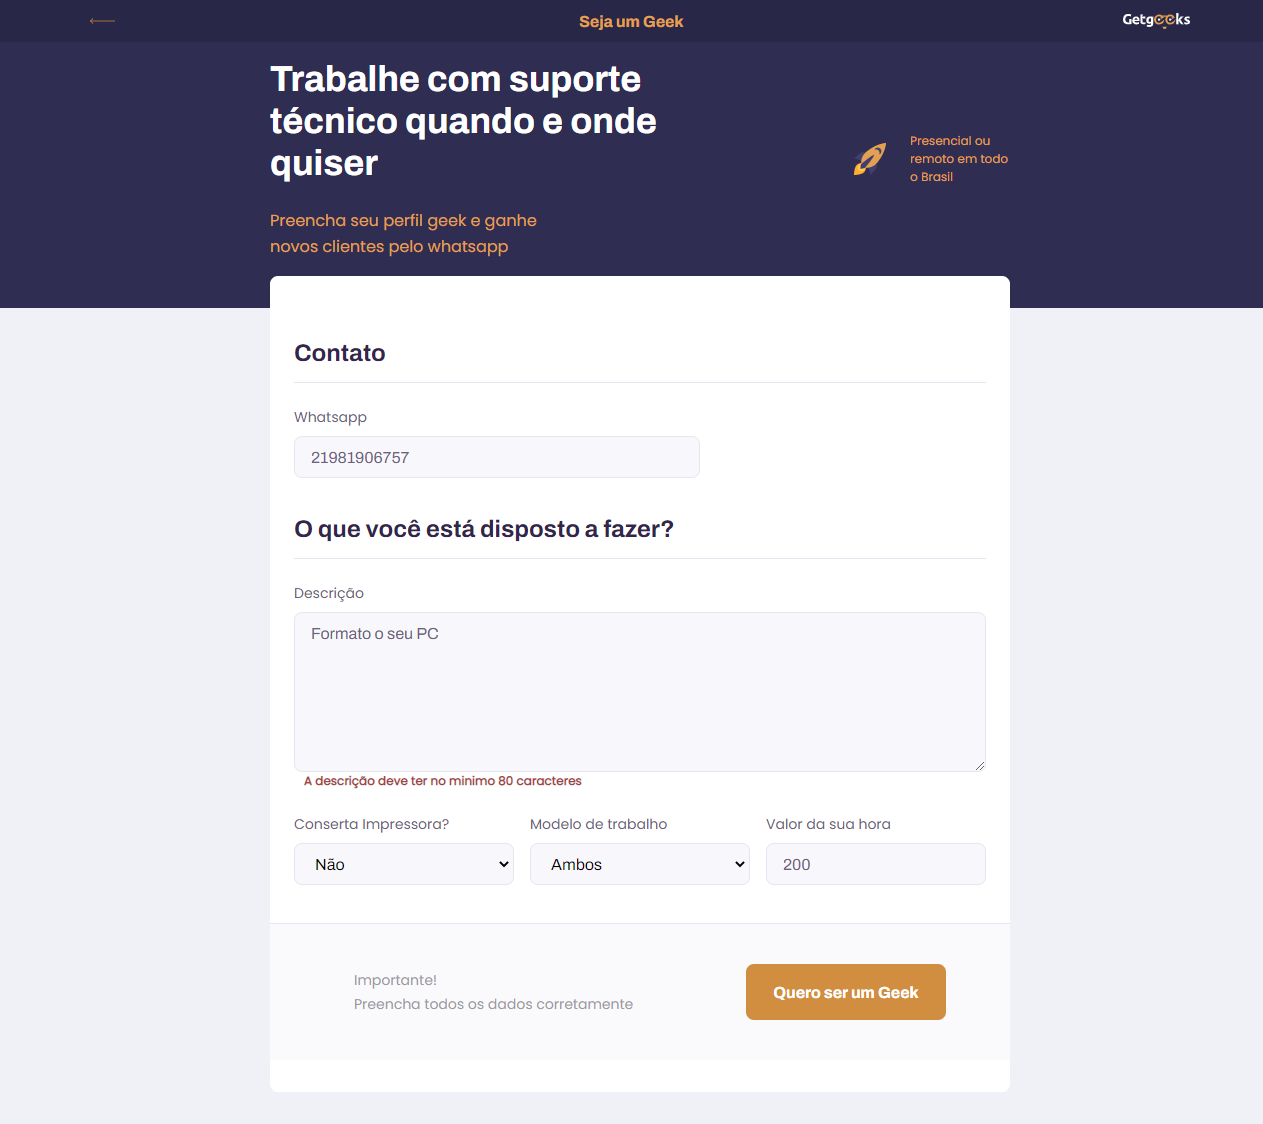
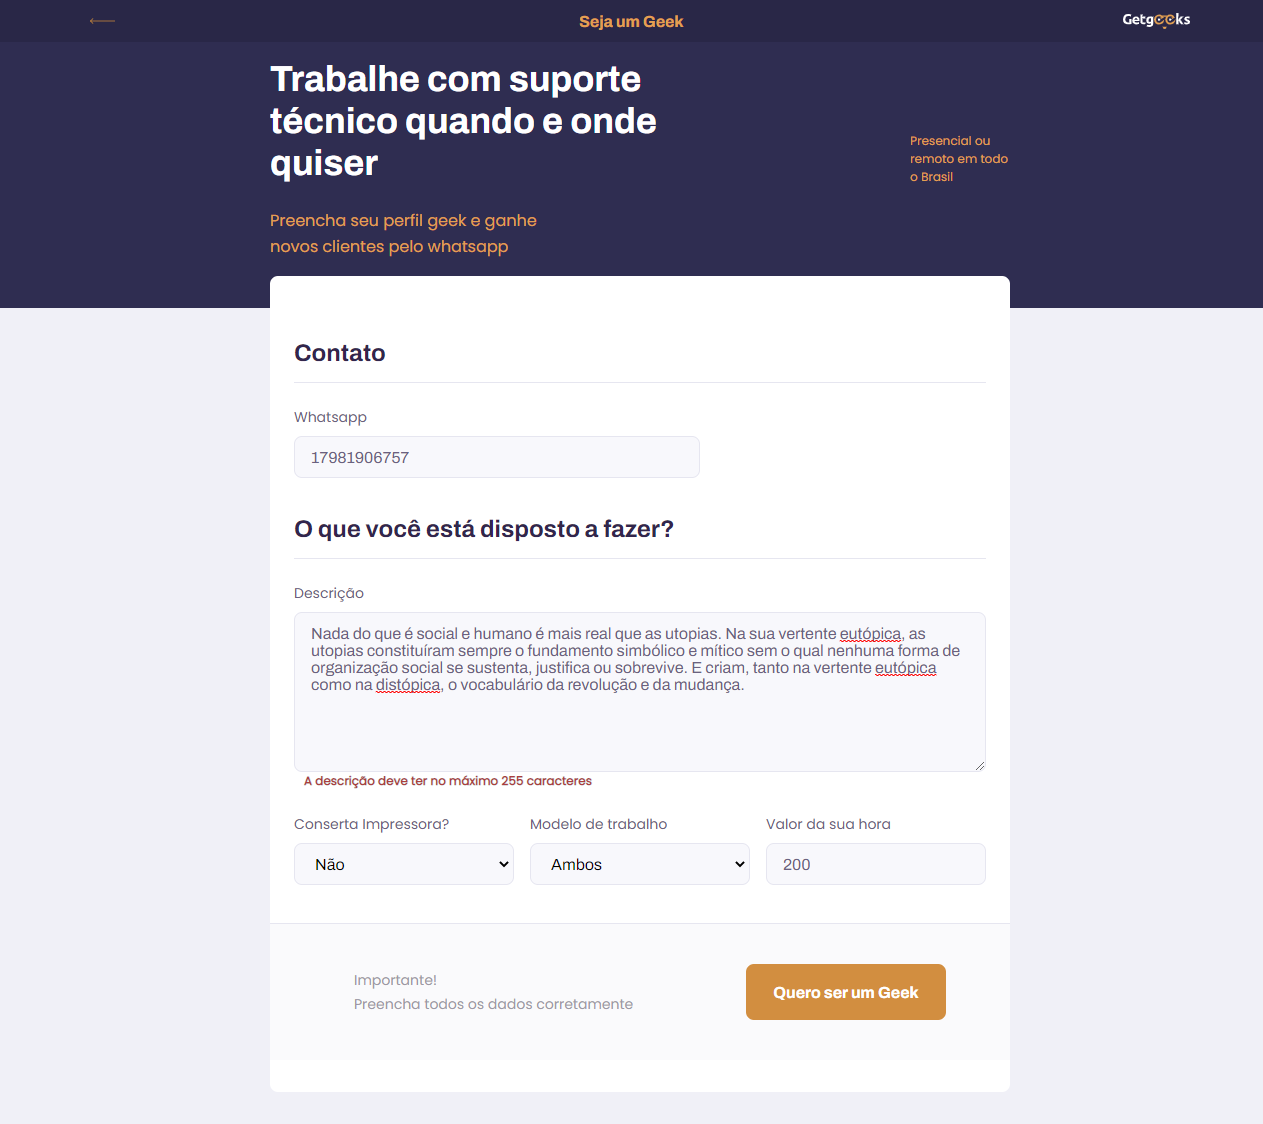
Descrição muito longa

Changed region(s): [[0.247, 0.5605, 0.772, 0.6228], [0.3705, 0.6851, 0.4632, 0.7162], [0.6793, 0.1246, 0.7102, 0.1557]]

diff --git a/logs/log.html b/logs/log.html
@@ -1803,25 +1803,25 @@ function stopPropagation(event) {
 window.output = {};
 </script>
 <script type="text/javascript">
-window.output["suite"] = [1,2,3,4,[],[1,0,5143],[],[[5,0,0,[6],[1,831,4268],[[1,7,8,0,0,0,0,0,[1,847,2409],[[0,9,10,0,11,12,0,13,[1,847,358],[[847,2,14],[1205,2,15]]],[0,16,10,0,17,18,0,13,[1,1205,2051],[[3256,2,19],[3256,2,20]]]]],[0,21,22,0,0,6,23,0,[1,3256,1],[[3257,2,24]]],[0,25,26,0,0,23,0,0,[1,3257,1451],[[0,27,28,0,0,0,0,0,[1,3257,521],[[0,29,10,0,30,18,0,13,[1,3257,501],[[3757,2,31]]],[0,32,10,0,33,34,0,35,[1,3758,20],[[3778,2,36]]]]],[0,37,28,0,0,23,0,0,[1,3778,34],[[0,38,28,0,0,23,0,0,[1,3779,19],[[0,39,10,0,40,41,0,42,[1,3779,19],[[3779,2,43]]]]],[0,44,28,0,0,23,0,0,[1,3798,14],[[0,39,10,0,40,45,0,42,[1,3798,14],[[3799,2,46]]]]]]],[0,47,28,0,0,0,0,0,[1,3812,56],[[0,48,10,0,49,50,0,42,[1,3813,55],[]]]],[0,51,28,0,0,23,0,0,[1,3868,840],[[0,52,53,0,54,55,56,0,[1,3868,0],[[3868,2,57]]],[0,52,53,0,54,58,59,0,[1,3868,1],[[3869,2,60]]],[0,32,10,0,33,61,0,35,[1,3869,823],[[4692,2,62]]],[0,63,10,0,64,65,0,66,[1,4692,16],[]]]]]],[0,67,68,0,0,0,0,0,[1,4708,75],[[0,48,10,0,49,69,0,42,[1,4708,68],[]],[0,32,10,0,33,70,0,35,[1,4776,7],[[4783,2,71]]]]],[0,72,68,0,0,73,0,0,[1,4783,62],[[0,39,10,0,40,74,0,42,[1,4784,13],[[4784,2,75]]],[0,39,10,0,40,76,0,42,[1,4798,9],[[4798,2,77]]],[0,78,10,0,79,80,0,42,[1,4807,14],[]],[0,78,10,0,79,81,0,42,[1,4821,14],[]],[0,39,10,0,40,82,0,42,[1,4835,10],[[4835,2,83]]]]],[0,84,68,0,0,0,0,0,[1,4845,74],[[0,48,10,0,49,85,0,42,[1,4846,73],[]]]],[0,86,87,0,0,88,0,0,[1,4919,6],[[0,32,10,0,33,89,0,35,[1,4920,5],[[4925,2,90]]]]],[2,91,8,0,0,0,0,0,[1,4925,174],[[0,92,10,0,93,94,0,95,[1,4925,174],[[5099,2,96]]]]]]]],[],[1,1,0,0]];
+window.output["suite"] = [1,2,3,4,[],[1,0,5334],[],[[5,0,0,[6],[1,868,4412],[[1,7,8,0,0,0,0,0,[1,869,2474],[[0,9,10,0,11,12,0,13,[1,870,308],[[870,2,14],[1177,2,15]]],[0,16,10,0,17,18,0,13,[1,1178,2164],[[3342,2,19],[3342,2,20]]]]],[0,21,22,0,0,6,23,0,[1,3344,5],[[3348,2,24]]],[0,25,26,0,0,23,0,0,[1,3349,1549],[[0,27,28,0,0,0,0,0,[1,3350,541],[[0,29,10,0,30,18,0,13,[1,3351,519],[[3870,2,31]]],[0,32,10,0,33,34,0,35,[1,3870,20],[[3890,2,36]]]]],[0,37,28,0,0,23,0,0,[1,3891,35],[[0,38,28,0,0,23,0,0,[1,3891,22],[[0,39,10,0,40,41,0,42,[1,3891,22],[[3891,2,43]]]]],[0,44,28,0,0,23,0,0,[1,3914,12],[[0,39,10,0,40,45,0,42,[1,3914,12],[[3914,2,46]]]]]]],[0,47,28,0,0,0,0,0,[1,3926,75],[[0,48,10,0,49,50,0,42,[1,3926,75],[]]]],[0,51,28,0,0,23,0,0,[1,4001,896],[[0,52,53,0,54,55,56,0,[1,4002,0],[[4002,2,57]]],[0,52,53,0,54,58,59,0,[1,4002,0],[[4002,2,60]]],[0,32,10,0,33,61,0,35,[1,4002,879],[[4881,2,62]]],[0,63,10,0,64,65,0,66,[1,4881,16],[]]]]]],[0,67,68,0,0,0,0,0,[1,4898,44],[[0,48,10,0,49,69,0,42,[1,4898,39],[]],[0,32,10,0,33,70,0,35,[1,4937,5],[[4942,2,71]]]]],[0,72,68,0,0,73,0,0,[1,4942,60],[[0,39,10,0,40,74,0,42,[1,4942,14],[[4942,2,75]]],[0,39,10,0,40,76,0,42,[1,4956,11],[[4956,2,77]]],[0,78,10,0,79,80,0,42,[1,4967,14],[]],[0,78,10,0,79,81,0,42,[1,4981,12],[]],[0,39,10,0,40,82,0,42,[1,4993,9],[[4993,2,83]]]]],[0,84,68,0,0,0,0,0,[1,5002,80],[[0,48,10,0,49,85,0,42,[1,5002,80],[]]]],[0,86,87,0,0,88,0,0,[1,5082,6],[[0,32,10,0,33,89,0,35,[1,5082,5],[[5087,2,90]]]]],[2,91,8,0,0,0,0,0,[1,5088,192],[[0,92,10,0,93,94,0,95,[1,5088,192],[[5279,2,96]]]]]]]],[],[1,1,0,0]];
 </script>
 <script type="text/javascript">
 window.output["strings"] = [];
 </script>
 <script type="text/javascript">
[2 lines of base64/hex data omitted]
 </script>
 <script type="text/javascript">
-window.output["stats"] = [[{"elapsed":"00:00:04","fail":0,"label":"All Tests","pass":1,"skip":0}],[{"elapsed":"00:00:04","fail":0,"label":"short_desc","pass":1,"skip":0}],[{"elapsed":"00:00:05","fail":0,"id":"s1","label":"BeGeek","name":"BeGeek","pass":1,"skip":0}]];
+window.output["stats"] = [[{"elapsed":"00:00:04","fail":0,"label":"All Tests","pass":1,"skip":0}],[{"elapsed":"00:00:04","fail":0,"label":"long_desc","pass":1,"skip":0}],[{"elapsed":"00:00:05","fail":0,"id":"s1","label":"BeGeek","name":"BeGeek","pass":1,"skip":0}]];
 </script>
 <script type="text/javascript">
 window.output["errors"] = [];
 </script>
 <script type="text/javascript">
-window.output["baseMillis"] = 1655983648609;
+window.output["baseMillis"] = 1655984643622;
 </script>
 <script type="text/javascript">
-window.output["generated"] = 5155;
+window.output["generated"] = 5347;
 </script>
 <script type="text/javascript">
 window.output["expand_keywords"] = null;

diff --git a/logs/report.html b/logs/report.html
@@ -1629,22 +1629,22 @@ storage = function () {
 window.output = {};
 </script>
 <script type="text/javascript">
-window.output["suite"] = [1,2,3,4,[],[1,0,5143],[],[[5,0,0,[6],[1,831,4268],[]]],[],[1,1,0,0]];
+window.output["suite"] = [1,2,3,4,[],[1,0,5334],[],[[5,0,0,[6],[1,868,4412],[]]],[],[1,1,0,0]];
 </script>
 <script type="text/javascript">
 window.output["strings"] = [];
 </script>
 <script type="text/javascript">
-window.output["strings"] = window.output["strings"].concat(["*","*BeGeek","*C:\\projects\\ROBOT\\GravidadeZero\\project\\tests\\BeGeek.robot","*../tests/BeGeek.robot","*<p>BeGeek test suite\x3c/p>","*Short Description","*short_desc"]);
+window.output["strings"] = window.output["strings"].concat(["*","*BeGeek","*C:\\projects\\ROBOT\\GravidadeZero\\project\\tests\\BeGeek.robot","*../tests/BeGeek.robot","*<p>BeGeek test suite\x3c/p>","*Long Description","*long_desc"]);
 </script>
 <script type="text/javascript">
-window.output["stats"] = [[{"elapsed":"00:00:04","fail":0,"label":"All Tests","pass":1,"skip":0}],[{"elapsed":"00:00:04","fail":0,"label":"short_desc","pass":1,"skip":0}],[{"elapsed":"00:00:05","fail":0,"id":"s1","label":"BeGeek","name":"BeGeek","pass":1,"skip":0}]];
+window.output["stats"] = [[{"elapsed":"00:00:04","fail":0,"label":"All Tests","pass":1,"skip":0}],[{"elapsed":"00:00:04","fail":0,"label":"long_desc","pass":1,"skip":0}],[{"elapsed":"00:00:05","fail":0,"id":"s1","label":"BeGeek","name":"BeGeek","pass":1,"skip":0}]];
 </script>
 <script type="text/javascript">
-window.output["baseMillis"] = 1655983648609;
+window.output["baseMillis"] = 1655984643622;
 </script>
 <script type="text/javascript">
-window.output["generated"] = 5155;
+window.output["generated"] = 5347;
 </script>
 <script type="text/javascript">
 window.output["expand_keywords"] = null;

diff --git a/resource/factories/User.py b/resource/factories/User.py
@@ -55,6 +55,19 @@ def factory_user(target):
                 'cost':'200'
             }
         },
+        'long_desc':{
+            'name': 'Rodrigo',
+            'lastname': 'Silva',
+            'email': 'rodrigo@arqueologo.com',
+            'password': 'pwd123',
+            'geek_profile': {
+                'whats':'17981906757',
+                'desc':'Nada do que é social e humano é mais real que as utopias. Na sua vertente eutópica, as utopias constituíram sempre o fundamento simbólico e mítico sem o qual nenhuma forma de organização social se sustenta, justifica ou sobrevive. E criam, tanto na vertente eutópica como na distópica, o vocabulário da revolução e da mudança.',
+                'printer_repair':'Não',
+                'work':'Ambos',
+                'cost':'200'
+            }
+        }
     }
 
     return data[target]
